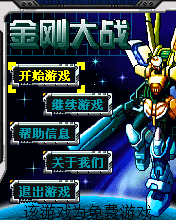
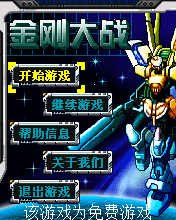
Fix MetalSlug tutorial text stack colors

Changed region(s): [[0.5114, 0.9273, 0.8807, 1.0], [0.142, 0.9273, 0.483, 1.0]]

diff --git a/crates/coolbaremu-core/src/machine/drawing.rs b/crates/coolbaremu-core/src/machine/drawing.rs
@@ -1100,7 +1100,7 @@ impl CoolbarMachine {
                 } else {
                     (raw_x, raw_y)
                 };
-                let color = self.memory.r16(self.register(reg::SP));
+                let color = self.argument(4) as u16;
                 if service_trace_enabled(4, 10) {
                     let bytes = self.read_c_bytes(string, 256);
                     let (text, _, _) = GBK.decode(&bytes);
@@ -2770,7 +2770,7 @@ mod rendering_tests {
         machine.memory.write_bytes(text, b"A\0");
         let stack = super::super::STACK_BASE + 0x100;
         machine.cpu.reg_set(Mode::User, reg::SP, stack);
-        machine.memory.w16(stack, 0xf800);
+        machine.memory.w32(stack, 0xf800);
         for (i, value) in [SCREEN_IMAGE, text, 10, 20].into_iter().enumerate() {
             machine.cpu.reg_set(Mode::User, i as u8, value);
         }
@@ -2804,7 +2804,7 @@ mod rendering_tests {
                 machine.memory.write_bytes(text, b"A\0");
                 let stack = super::super::STACK_BASE + 0x100;
                 machine.cpu.reg_set(Mode::User, reg::SP, stack);
-                machine.memory.w16(stack, 0xf800);
+                machine.memory.w32(stack, 0xf800);
                 machine.latched_text_origin = (3312, 100);
                 for (i, value) in [image, text, 0, 0].into_iter().enumerate() {
                     machine.cpu.reg_set(Mode::User, i as u8, value);
@@ -2816,7 +2816,7 @@ mod rendering_tests {
                     .collect();
                 assert!(
                     colors.contains(&0xf800),
-                    "The glyph must be drawn into its cache image"
+                    "The glyph must use the promoted stack color in either guest byte order"
                 );
                 machine.blit_image(SCREEN_IMAGE_STRUCT, image, 0, 0, 16, 16, 20, 30, true);
                 assert!(machine.frame_pixels().contains(&0xff0000));

diff --git a/docs/Game-Compatibility.md b/docs/Game-Compatibility.md
@@ -304,7 +304,7 @@ not provide the original server's content or a real carrier payment service.
 | 22 | `C/MaJiang.CBE` | 176×220 | <img src="images/C/MaJiang.png" width="120" alt="MaJiang idle frame"> | Not assessed | Ready | Idle frame captured; interaction/gameplay unverified |
 | 23 | `C/Map.CBE` | 176×220 | <img src="images/C/Map.png" width="120" alt="Map idle frame"> | Not assessed | Ready | Map grid, center marker and bottom menu render; online map data unverified |
 | 24 | `C/mario.CBE` | 176×220 | <img src="images/C/mario.png" width="120" alt="mario idle frame"> | Not assessed | Ready | Native 176×220 LCD; startup margins resolved; gameplay unverified |
-| 25 | `C/MetalSlug.CBE` | 176×220 | <img src="images/C/MetalSlug.png" width="120" alt="MetalSlug idle frame"> | Not assessed | Ready | Native 176×220 LCD; startup margins resolved; gameplay unverified |
+| 25 | `C/MetalSlug.CBE` | 176×220 | <img src="images/C/MetalSlug.png" width="120" alt="MetalSlug idle frame"> | Not assessed | Ready | Native 176×220 LCD; tutorial text uses the supplied RGB565 color. First-stage movement, jumping, firing and menus checked; complete stages and audio unverified. <a href="images/C/MetalSlug-tutorial.png">Tutorial</a> / <a href="images/C/MetalSlug-gameplay.png">Gameplay</a> |
 | 26 | `C/MoTa.CBE` | 176×220 | <img src="images/C/MoTa.png" width="120" alt="MoTa idle frame"> | Not assessed | Ready | Native 176×220 LCD; startup margins resolved; gameplay unverified |
 | 27 | `C/MyGirl.CBE` | 176×220 | <img src="images/C/MyGirl.png" width="120" alt="MyGirl idle frame"> | Not assessed | Ready | Native 176×220 LCD; startup margins resolved; gameplay unverified |
 | 28 | `C/netgobang.CBE` | 176×220 | <img src="images/C/netgobang.png" width="120" alt="netgobang idle frame"> | Not assessed | Ready | Native 176×220 LCD; margins resolved; font images/UI content remain incorrect; gameplay unverified |

diff --git a/README.md b/README.md
@@ -54,7 +54,8 @@ signatures and configuration keys are not supported.
   counters and selected targets, with LCD clipping for fixed-manager sprite-sheet digits
   and scalar screen/image rectangle outlines
 - **Text rendering** — GBK and guest-endian UCS-2 strings, clipped and wrapped
-  text, and offscreen glyph-cache drawing with an embedded Unicode bitmap font
+  text, promoted RGB565 stack colors in either guest byte order, and offscreen
+  glyph-cache drawing with an embedded Unicode bitmap font
 - **Screen composition** — resource initialization, stacked backgrounds and
   modal overlays, event propagation, and resuming screens without reinitialization
 - **Application LCD dimensions** — startup screen clips, clears, and background layout resolve

diff --git a/docs/architecture.md b/docs/architecture.md
@@ -284,6 +284,9 @@ including `(0, 0)` in an offscreen glyph cache. Only context-only callers with
 no valid image use the pen origin latched from `GetScreenImage`; stale register
 values must not redirect cached glyphs to the screen.
 String APIs support explicit offscreen images and the raw LCD buffer alias.
+`DrawText` reads its RGB565 color from the low 16 bits of the full fifth ABI
+argument word. On big-endian guests the leading halfword contains padding,
+rather than the color.
 Clipped strings honor their pixel width; rectangle strings wrap and return their
 occupied line count and width. Scalar and packed LCD line APIs include both
 endpoints and clip pixels to the active surface. Scalar outline/fill rectangle
